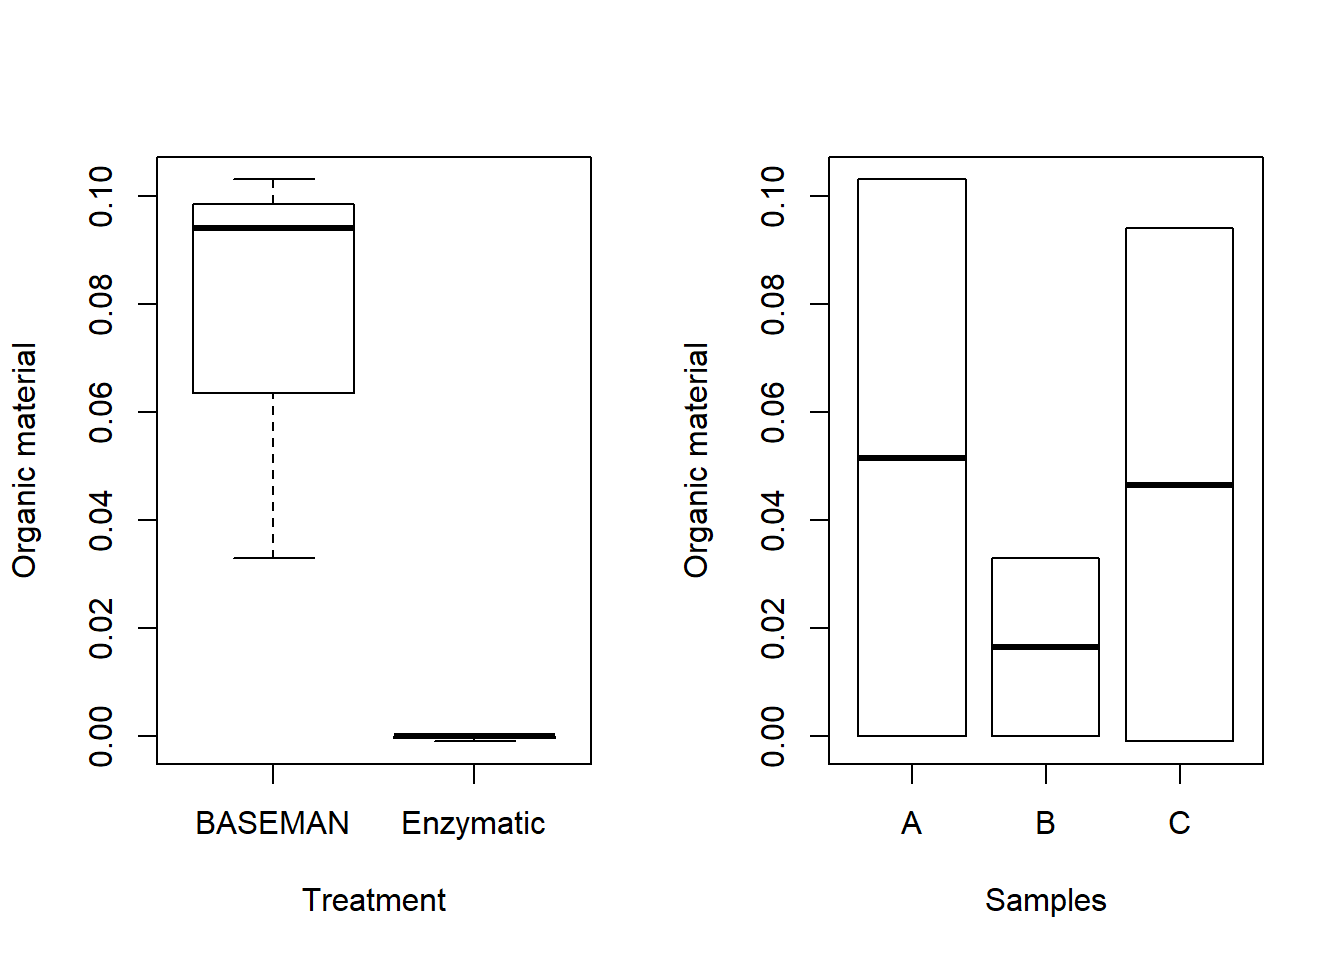
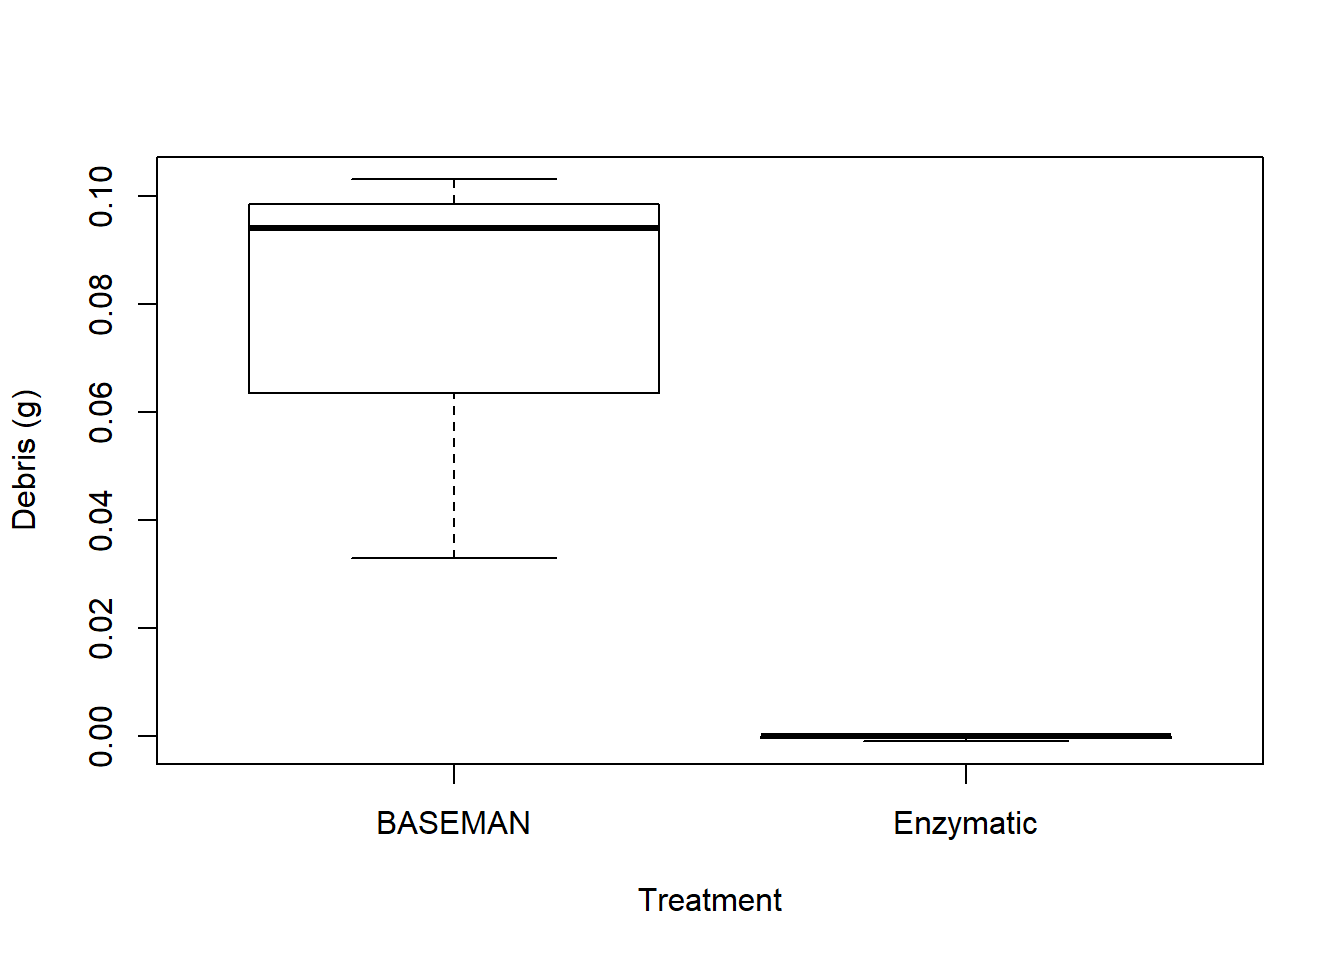
smá texti

diff --git a/docs/microplastic-sampling-and-processing-2019-results.html b/docs/microplastic-sampling-and-processing-2019-results.html
@@ -271,8 +271,8 @@ The number of detected MP particles must be well above blank samples!!!
 </div>
 <div id="sampling-and-processing-dates-of-2019" class="section level2" number="2.2">
 <h2><span class="header-section-number">2.2</span> Sampling and processing dates of 2019</h2>
-<div id="htmlwidget-9a9e03ef46f32324e16c" style="width:100%;height:auto;" class="datatables html-widget"></div>
-<script type="application/json" data-for="htmlwidget-9a9e03ef46f32324e16c">{"x":{"filter":"none","caption":"<caption>Sampling and processing dates<\/caption>","data":[["St 901","St 902","St 903","St 904","St 905","St 906","St 907","St 908","St 909","St 910","St 911","St 912","St 913","St 914","St 915","St 916","St 917","St 918","St 919","St 920","St 921","St 922"],["2019-04-05","2019-04-24","2019-04-30","2019-05-12","2019-05-17","2019-05-25","2019-05-31","2019-06-08","2019-06-14","2019-06-22","2019-06-28","2019-07-06","2019-07-12","2019-07-19","2019-07-25","2019-07-31","2019-08-22","2019-08-31","2019-09-04","2019-09-12","2019-09-18","2019-10-01"],["2019-06-20","2019-06-20","2019-06-20","2019-06-21","2019-06-21","2019-06-21","2019-06-26","2019-06-26","2019-06-26","2019-07-02","2019-07-02","2019-07-22","2019-07-22","2019-07-22","2019-08-27","2019-08-27","2019-08-27","2019-10-01","2019-10-01","2019-10-01","2019-10-23","2019-10-23"],["2019-06-28","2019-06-01","2019-06-01","2019-06-28","2019-06-28","2019-06-28","2019-06-03","2019-06-03","2019-06-03","2019-07-26","2019-07-26","2019-07-30","2019-07-30","2019-07-30","2019-09-30","2019-09-30","2019-09-30","2019-10-17","2019-10-17","2019-10-17","2019-11-05","2019-11-05"]],"container":"<table class=\"display\">\n  <thead>\n    <tr>\n      <th>Sample ID<\/th>\n      <th>Sampling Date<\/th>\n      <th>Processing Date<\/th>\n      <th>Put on Filter<\/th>\n    <\/tr>\n  <\/thead>\n<\/table>","options":{"order":[],"autoWidth":false,"orderClasses":false}},"evals":[],"jsHooks":[]}</script>
+<div id="htmlwidget-3ae4087a4334afe82471" style="width:100%;height:auto;" class="datatables html-widget"></div>
+<script type="application/json" data-for="htmlwidget-3ae4087a4334afe82471">{"x":{"filter":"none","caption":"<caption>Sampling and processing dates<\/caption>","data":[["St 901","St 902","St 903","St 904","St 905","St 906","St 907","St 908","St 909","St 910","St 911","St 912","St 913","St 914","St 915","St 916","St 917","St 918","St 919","St 920","St 921","St 922"],["2019-04-05","2019-04-24","2019-04-30","2019-05-12","2019-05-17","2019-05-25","2019-05-31","2019-06-08","2019-06-14","2019-06-22","2019-06-28","2019-07-06","2019-07-12","2019-07-19","2019-07-25","2019-07-31","2019-08-22","2019-08-31","2019-09-04","2019-09-12","2019-09-18","2019-10-01"],["2019-06-20","2019-06-20","2019-06-20","2019-06-21","2019-06-21","2019-06-21","2019-06-26","2019-06-26","2019-06-26","2019-07-02","2019-07-02","2019-07-22","2019-07-22","2019-07-22","2019-08-27","2019-08-27","2019-08-27","2019-10-01","2019-10-01","2019-10-01","2019-10-23","2019-10-23"],["2019-06-28","2019-06-01","2019-06-01","2019-06-28","2019-06-28","2019-06-28","2019-06-03","2019-06-03","2019-06-03","2019-07-26","2019-07-26","2019-07-30","2019-07-30","2019-07-30","2019-09-30","2019-09-30","2019-09-30","2019-10-17","2019-10-17","2019-10-17","2019-11-05","2019-11-05"]],"container":"<table class=\"display\">\n  <thead>\n    <tr>\n      <th>Sample ID<\/th>\n      <th>Sampling Date<\/th>\n      <th>Processing Date<\/th>\n      <th>Put on Filter<\/th>\n    <\/tr>\n  <\/thead>\n<\/table>","options":{"order":[],"autoWidth":false,"orderClasses":false}},"evals":[],"jsHooks":[]}</script>
 <div id="efficiency-of-digestion" class="section level3" number="2.2.1">
 <h3><span class="header-section-number">2.2.1</span> Efficiency of digestion</h3>
 <p>Samples 901-906 could not be weighed as those samples were put onto a GF/C filter which seems to have lost weight after filtration. Hence samples 901-906 could not give us information about the digestion efficiency.
@@ -281,8 +281,8 @@ The median digestion efficiency was 92 % which means that 92 % of the organic ma
 The amount left behind on the filter after digestion correlates with the amount of organic matter originally present in the samples.
 Digestion efficiency was below the average in samples 915, 916, 917, 918 and 920. Possibly because of high content of diatoms.
 All but the nitrocellulose filters were digestet as well which explains why digestion efficiancy is over 100% in many cases.</p>
-<div id="htmlwidget-44d05086dcd99eee4164" style="width:100%;height:auto;" class="datatables html-widget"></div>
-<script type="application/json" data-for="htmlwidget-44d05086dcd99eee4164">{"x":{"filter":"none","caption":"<caption>Efficiency of digestion<\/caption>","data":[[901,901,901,902,902,902,903,903,903,904,904,904,905,905,905,906,906,906,907,907,907,908,908,908,909,909,909,910,910,910,911,911,911,912,912,912,913,913,913,914,914,914,915,915,915,916,916,916,917,917,917,918,918,918,919,919,919,920,920,920,921,921,921,922,922,922],["A","B","C","A","B","C","A","B","C","A","B","C","A","B","C","A","B","C","A","B","C","A","B","C","A","B","C","A","B","C","A","B","C","A","B","C","A","B","C","A","B","C","A","B","C","A","B","C","A","B","C","A","B","C","A","B","C","A","B","C","A","B","C","A","B","C"],["GF/C","GF/C","GF/C","GF/C","GF/C","GF/C","GF/C","GF/C","GF/C","GF/C","GF/C","GF/C","GF/C","GF/C","GF/C","GF/C","GF/C","GF/C","Membrane Filter, 0.22 µm","Membrane Filter, 0.22 µm","Membrane Filter, 0.22 µm","Membrane Filter, 0.22 µm","Membrane Filter, 0.22 µm","Membrane Filter, 0.22 µm","Membrane Filter, 0.22 µm","Membrane Filter, 0.22 µm","Membrane Filter, 0.22 µm","Nitrocellulose filter","Nitrocellulose filter","Nitrocellulose filter","Nitrocellulose filter","Nitrocellulose filter","Nitrocellulose filter","Nitrocellulose filter","Nitrocellulose filter","Nitrocellulose filter","Nitrocellulose filter","Nitrocellulose filter","Nitrocellulose filter","Nitrocellulose filter","Nitrocellulose filter","Nitrocellulose filter","Nitrocellulose filter","Nitrocellulose filter","Nitrocellulose filter","Nitrocellulose filter","Nitrocellulose filter","Nitrocellulose filter","Nitrocellulose filter","Nitrocellulose filter","Nitrocellulose filter","Nitrocellulose filter","Nitrocellulose filter","Nitrocellulose filter","Nitrocellulose filter","Nitrocellulose filter","Nitrocellulose filter","Nitrocellulose filter","Nitrocellulose filter","Nitrocellulose filter","Nitrocellulose filter","Nitrocellulose filter","Nitrocellulose filter","Nitrocellulose filter","Nitrocellulose filter","Nitrocellulose filter"],[0.092,0.0935,0.0926,0.0936,0.0971,0.0982,0.0994,0.0979,0.098,0.0922,0.0924,0.0931,0.0922,0.0901,0.0922,0.0889,0.0929,0.0929,0.1408,0.1418,0.1438,0.1434,0.1415,0.1419,0.1443,0.1429,0.1422,0.078,0.0777,0.0793,0.0782,0.0797,0.0815,0.0789,0.0817,0.0851,0.0776,0.0781,0.0781,0.0801,0.0807,0.0816,0.0829,0.0827,0.085,0.0872,0.0844,0.082,null,0.1179,0.113,0.0782,0.0799,0.0795,0.0789,0.0793,0.0796,0.0816,0.0832,0.0826,0.0806,0.0799,0.0808,0.0792,0.0803,0.0797],[0.09518,0.09518,0.09518,0.09518,0.09518,0.09518,0.09518,0.09518,0.09518,0.09518,0.09518,0.09518,0.09518,0.09518,0.09518,0.09518,0.09518,0.09518,0.14064,0.14064,0.14064,0.14064,0.14064,0.14064,0.14064,0.14064,0.14064,0.07605,0.07605,0.07605,0.07605,0.07605,0.07605,0.07605,0.07605,0.07605,0.07605,0.07605,0.07605,0.07605,0.07605,0.07605,0.07605,0.07605,0.07605,0.07605,0.07605,0.07605,null,0.07605,0.07605,0.07605,0.07605,0.07605,0.07605,0.07605,0.07605,0.07605,0.07605,0.07605,0.07605,0.07605,0.07605,0.07605,0.07605,0.07605],[-0.00318,-0.00168,-0.00258,-0.00158,0.00192,0.00302,0.00422,0.00272,0.00282,-0.00298,-0.00278,-0.00208,-0.00298,-0.00508,-0.00298,-0.00628,-0.00228,-0.00228,0.00016,0.00116,0.00316,0.00276,0.00086,0.00126,0.00366,0.00226,0.00156,0.00195,0.00165,0.00325,0.00215,0.00365,0.00545,0.00285,0.00565,0.00905,0.00155,0.00205,0.00205,0.00405,0.00465,0.00555,0.00685,0.00665,0.00895,0.01115,0.00835,0.00595,null,0.04185,0.03695,0.00215,0.00385,0.00345,0.00285,0.00325,0.00355,0.00555,0.00715,0.00655,0.00455,0.00385,0.00475,0.00315,0.00425,0.00365],[0.026,0.0529,0.0906,0.4761,0.3078,0.1083,0.4068,0.2967,0.3368,0.1194,0.0657,0.0419,0.0323,0.0236,0.0317,0.0334,0.026,null,0.0474,0.0407,0.038,0.0428,0.0279,0.0612,0.0955,0.0623,0.0385,0.0192,0.021,0.028,0.037,0.0561,0.0751,0.0497,0.0789,0.0873,0.0206,0.0363,0.0375,0.0507,0.0382,0.0507,0.0108,0.0256,0.0467,0.0765,0.0314,0.0225,null,0.2349,0.2382,0.0237,0.0272,0.0135,0.1052,0.0522,0.0543,0.0218,0.0253,0.024,0.0654,0.0902,0.0704,0.0321,0.043,0.0397],[0,-3.2,-2.8,-0.3,0.6,2.8,1,0.9,0.8,-2.5,-4.2,-5,-9.2,-21.5,-9.4,-18.8,-8.8,null,0.3,2.9,8.3,6.4,3.1,2.1,3.8,3.6,4.1,10.2,7.9,11.6,5.8,6.5,7.3,5.7,7.2,10.4,7.5,5.6,5.5,8,12.2,10.9,63.4,26,19.2,14.6,26.6,26.4,null,17.8,15.5,9.1,14.2,25.6,2.7,6.2,6.5,25.5,28.3,27.3,7,4.3,6.7,9.8,9.9,9.2],[100,103.2,102.8,100.3,99.4,97.2,99,99.1,99.2,102.5,104.2,105,109.2,121.5,109.4,118.8,108.8,100,99.7,97.1,91.7,93.6,96.9,97.9,96.2,96.4,95.9,89.8,92.1,88.4,94.2,93.5,92.7,94.3,92.8,89.6,92.5,94.4,94.5,92,87.8,89.1,36.6,74,80.8,85.4,73.4,73.6,null,82.2,84.5,90.9,85.8,74.4,97.3,93.8,93.5,74.5,71.7,72.7,93,95.7,93.3,90.2,90.1,90.8]],"container":"<table class=\"display\">\n  <thead>\n    <tr>\n      <th>Sample ID<\/th>\n      <th>Repl.<\/th>\n      <th>Filter type<\/th>\n      <th>Debris after digest. [g] incl. tare<\/th>\n      <th>Tare of filter (average)<\/th>\n      <th>Debris after digest. [g]<\/th>\n      <th>Debris before digest. [g]<\/th>\n      <th>% left after digest.<\/th>\n      <th>Digest. EFFCY [%]<\/th>\n    <\/tr>\n  <\/thead>\n<\/table>","options":{"columnDefs":[{"className":"dt-right","targets":[0,3,4,5,6,7,8]}],"order":[],"autoWidth":false,"orderClasses":false,"rowCallback":"function(row, data) {\nvar value=data[0]; $(this.api().cell(row, 0).node()).css({'font-size':'80%'});\nvar value=data[1]; $(this.api().cell(row, 1).node()).css({'font-size':'80%'});\nvar value=data[2]; $(this.api().cell(row, 2).node()).css({'font-size':'80%'});\nvar value=data[3]; $(this.api().cell(row, 3).node()).css({'font-size':'80%'});\nvar value=data[4]; $(this.api().cell(row, 4).node()).css({'font-size':'80%'});\nvar value=data[5]; $(this.api().cell(row, 5).node()).css({'font-size':'80%'});\nvar value=data[6]; $(this.api().cell(row, 6).node()).css({'font-size':'80%'});\nvar value=data[7]; $(this.api().cell(row, 7).node()).css({'font-size':'80%'});\nvar value=data[8]; $(this.api().cell(row, 8).node()).css({'font-size':'80%'});\n}"}},"evals":["options.rowCallback"],"jsHooks":[]}</script>
+<div id="htmlwidget-20bcb226ea2353850283" style="width:100%;height:auto;" class="datatables html-widget"></div>
+<script type="application/json" data-for="htmlwidget-20bcb226ea2353850283">{"x":{"filter":"none","caption":"<caption>Efficiency of digestion<\/caption>","data":[[901,901,901,902,902,902,903,903,903,904,904,904,905,905,905,906,906,906,907,907,907,908,908,908,909,909,909,910,910,910,911,911,911,912,912,912,913,913,913,914,914,914,915,915,915,916,916,916,917,917,917,918,918,918,919,919,919,920,920,920,921,921,921,922,922,922],["A","B","C","A","B","C","A","B","C","A","B","C","A","B","C","A","B","C","A","B","C","A","B","C","A","B","C","A","B","C","A","B","C","A","B","C","A","B","C","A","B","C","A","B","C","A","B","C","A","B","C","A","B","C","A","B","C","A","B","C","A","B","C","A","B","C"],["GF/C","GF/C","GF/C","GF/C","GF/C","GF/C","GF/C","GF/C","GF/C","GF/C","GF/C","GF/C","GF/C","GF/C","GF/C","GF/C","GF/C","GF/C","Membrane Filter, 0.22 µm","Membrane Filter, 0.22 µm","Membrane Filter, 0.22 µm","Membrane Filter, 0.22 µm","Membrane Filter, 0.22 µm","Membrane Filter, 0.22 µm","Membrane Filter, 0.22 µm","Membrane Filter, 0.22 µm","Membrane Filter, 0.22 µm","Nitrocellulose filter","Nitrocellulose filter","Nitrocellulose filter","Nitrocellulose filter","Nitrocellulose filter","Nitrocellulose filter","Nitrocellulose filter","Nitrocellulose filter","Nitrocellulose filter","Nitrocellulose filter","Nitrocellulose filter","Nitrocellulose filter","Nitrocellulose filter","Nitrocellulose filter","Nitrocellulose filter","Nitrocellulose filter","Nitrocellulose filter","Nitrocellulose filter","Nitrocellulose filter","Nitrocellulose filter","Nitrocellulose filter","Nitrocellulose filter","Nitrocellulose filter","Nitrocellulose filter","Nitrocellulose filter","Nitrocellulose filter","Nitrocellulose filter","Nitrocellulose filter","Nitrocellulose filter","Nitrocellulose filter","Nitrocellulose filter","Nitrocellulose filter","Nitrocellulose filter","Nitrocellulose filter","Nitrocellulose filter","Nitrocellulose filter","Nitrocellulose filter","Nitrocellulose filter","Nitrocellulose filter"],[0.092,0.0935,0.0926,0.0936,0.0971,0.0982,0.0994,0.0979,0.098,0.0922,0.0924,0.0931,0.0922,0.0901,0.0922,0.0889,0.0929,0.0929,0.1408,0.1418,0.1438,0.1434,0.1415,0.1419,0.1443,0.1429,0.1422,0.078,0.0777,0.0793,0.0782,0.0797,0.0815,0.0789,0.0817,0.0851,0.0776,0.0781,0.0781,0.0801,0.0807,0.0816,0.0829,0.0827,0.085,0.0872,0.0844,0.082,null,0.1179,0.113,0.0782,0.0799,0.0795,0.0789,0.0793,0.0796,0.0816,0.0832,0.0826,0.0806,0.0799,0.0808,0.0792,0.0803,0.0797],[0.09518,0.09518,0.09518,0.09518,0.09518,0.09518,0.09518,0.09518,0.09518,0.09518,0.09518,0.09518,0.09518,0.09518,0.09518,0.09518,0.09518,0.09518,0.14064,0.14064,0.14064,0.14064,0.14064,0.14064,0.14064,0.14064,0.14064,0.07605,0.07605,0.07605,0.07605,0.07605,0.07605,0.07605,0.07605,0.07605,0.07605,0.07605,0.07605,0.07605,0.07605,0.07605,0.07605,0.07605,0.07605,0.07605,0.07605,0.07605,null,0.07605,0.07605,0.07605,0.07605,0.07605,0.07605,0.07605,0.07605,0.07605,0.07605,0.07605,0.07605,0.07605,0.07605,0.07605,0.07605,0.07605],[-0.00318,-0.00168,-0.00258,-0.00158,0.00192,0.00302,0.00422,0.00272,0.00282,-0.00298,-0.00278,-0.00208,-0.00298,-0.00508,-0.00298,-0.00628,-0.00228,-0.00228,0.00016,0.00116,0.00316,0.00276,0.00086,0.00126,0.00366,0.00226,0.00156,0.00195,0.00165,0.00325,0.00215,0.00365,0.00545,0.00285,0.00565,0.00905,0.00155,0.00205,0.00205,0.00405,0.00465,0.00555,0.00685,0.00665,0.00895,0.01115,0.00835,0.00595,null,0.04185,0.03695,0.00215,0.00385,0.00345,0.00285,0.00325,0.00355,0.00555,0.00715,0.00655,0.00455,0.00385,0.00475,0.00315,0.00425,0.00365],[0.026,0.0529,0.0906,0.4761,0.3078,0.1083,0.4068,0.2967,0.3368,0.1194,0.0657,0.0419,0.0323,0.0236,0.0317,0.0334,0.026,null,0.0474,0.0407,0.038,0.0428,0.0279,0.0612,0.0955,0.0623,0.0385,0.0192,0.021,0.028,0.037,0.0561,0.0751,0.0497,0.0789,0.0873,0.0206,0.0363,0.0375,0.0507,0.0382,0.0507,0.0108,0.0256,0.0467,0.0765,0.0314,0.0225,null,0.2349,0.2382,0.0237,0.0272,0.0135,0.1052,0.0522,0.0543,0.0218,0.0253,0.024,0.0654,0.0902,0.0704,0.0321,0.043,0.0397],[0,-3.2,-2.8,-0.3,0.6,2.8,1,0.9,0.8,-2.5,-4.2,-5,-9.2,-21.5,-9.4,-18.8,-8.8,null,0.3,2.9,8.3,6.4,3.1,2.1,3.8,3.6,4.1,10.2,7.9,11.6,5.8,6.5,7.3,5.7,7.2,10.4,7.5,5.6,5.5,8,12.2,10.9,63.4,26,19.2,14.6,26.6,26.4,null,17.8,15.5,9.1,14.2,25.6,2.7,6.2,6.5,25.5,28.3,27.3,7,4.3,6.7,9.8,9.9,9.2],[100,103.2,102.8,100.3,99.4,97.2,99,99.1,99.2,102.5,104.2,105,109.2,121.5,109.4,118.8,108.8,100,99.7,97.1,91.7,93.6,96.9,97.9,96.2,96.4,95.9,89.8,92.1,88.4,94.2,93.5,92.7,94.3,92.8,89.6,92.5,94.4,94.5,92,87.8,89.1,36.6,74,80.8,85.4,73.4,73.6,null,82.2,84.5,90.9,85.8,74.4,97.3,93.8,93.5,74.5,71.7,72.7,93,95.7,93.3,90.2,90.1,90.8]],"container":"<table class=\"display\">\n  <thead>\n    <tr>\n      <th>Sample ID<\/th>\n      <th>Repl.<\/th>\n      <th>Filter type<\/th>\n      <th>Debris after digest. [g] incl. tare<\/th>\n      <th>Tare of filter (average)<\/th>\n      <th>Debris after digest. [g]<\/th>\n      <th>Debris before digest. [g]<\/th>\n      <th>% left after digest.<\/th>\n      <th>Digest. EFFCY [%]<\/th>\n    <\/tr>\n  <\/thead>\n<\/table>","options":{"columnDefs":[{"className":"dt-right","targets":[0,3,4,5,6,7,8]}],"order":[],"autoWidth":false,"orderClasses":false,"rowCallback":"function(row, data) {\nvar value=data[0]; $(this.api().cell(row, 0).node()).css({'font-size':'80%'});\nvar value=data[1]; $(this.api().cell(row, 1).node()).css({'font-size':'80%'});\nvar value=data[2]; $(this.api().cell(row, 2).node()).css({'font-size':'80%'});\nvar value=data[3]; $(this.api().cell(row, 3).node()).css({'font-size':'80%'});\nvar value=data[4]; $(this.api().cell(row, 4).node()).css({'font-size':'80%'});\nvar value=data[5]; $(this.api().cell(row, 5).node()).css({'font-size':'80%'});\nvar value=data[6]; $(this.api().cell(row, 6).node()).css({'font-size':'80%'});\nvar value=data[7]; $(this.api().cell(row, 7).node()).css({'font-size':'80%'});\nvar value=data[8]; $(this.api().cell(row, 8).node()).css({'font-size':'80%'});\n}"}},"evals":["options.rowCallback"],"jsHooks":[]}</script>
 <p><img src="MPprotocol_files/figure-html/MyndDigestionEff-1.svg" width="672" /><img src="MPprotocol_files/figure-html/MyndDigestionEff-2.svg" width="672" /></p>
 </div>
 </div>

diff --git a/docs/comparison-of-enzymatic-purification-and-gesamp-protocol.html b/docs/comparison-of-enzymatic-purification-and-gesamp-protocol.html
@@ -141,15 +141,17 @@
             <section class="normal" id="section-">
 <div id="comparison-of-enzymatic-purification-and-gesamp-protocol" class="section level1" number="3">
 <h1><span class="header-section-number">Chapter 3</span> Comparison of Enzymatic purification and GESAMP protocol</h1>
-<p>Replication of the methods from the article: Enzymatic Purification of Microplastics in Environmental Samples.</p>
+<p><em>Replication of the methods from the article: <a href="https://pubs.acs.org/doi/abs/10.1021/acs.est.7b03055">Enzymatic Purification of Microplastics in Environmental Samples</a>.</em></p>
+<p>To perform this comparison study samples A, B and C from sample trip 909 were divided in two treatments; the BASEMAN (see above) and Enzymatic treatment (without the density separation step).</p>
 <p><img src="MPprotocol_files/figure-html/unnamed-chunk-1-1.png" width="672" /></p>
 <table>
 <thead>
 <tr class="header">
 <th align="left">Treatment</th>
 <th align="left">Sample</th>
-<th align="right">Organic material</th>
-<th align="right">Digestion Efficiency</th>
+<th align="right">Debris before (g)</th>
+<th align="right">Debris after (g)</th>
+<th align="right">Digestion Efficiency (%)</th>
 </tr>
 </thead>
 <tbody>
@@ -157,42 +159,49 @@
 <td align="left">Enzymatic</td>
 <td align="left">C</td>
 <td align="right">1.427</td>
-<td align="right">1.00</td>
+<td align="right">-0.001</td>
+<td align="right">100</td>
 </tr>
 <tr class="even">
 <td align="left">Enzymatic</td>
 <td align="left">B</td>
 <td align="right">1.275</td>
-<td align="right">1.00</td>
+<td align="right">0.000</td>
+<td align="right">100</td>
 </tr>
 <tr class="odd">
 <td align="left">Enzymatic</td>
 <td align="left">A</td>
 <td align="right">1.383</td>
-<td align="right">1.00</td>
+<td align="right">0.000</td>
+<td align="right">100</td>
 </tr>
 <tr class="even">
 <td align="left">BASEMAN</td>
 <td align="left">C</td>
 <td align="right">1.588</td>
-<td align="right">0.94</td>
+<td align="right">0.094</td>
+<td align="right">94</td>
 </tr>
 <tr class="odd">
 <td align="left">BASEMAN</td>
 <td align="left">B</td>
 <td align="right">1.283</td>
-<td align="right">0.97</td>
+<td align="right">0.033</td>
+<td align="right">97</td>
 </tr>
 <tr class="even">
 <td align="left">BASEMAN</td>
 <td align="left">A</td>
 <td align="right">1.503</td>
-<td align="right">0.93</td>
+<td align="right">0.103</td>
+<td align="right">93</td>
 </tr>
 </tbody>
 </table>
 <div id="images" class="section level2" number="3.1">
 <h2><span class="header-section-number">3.1</span> Images</h2>
+<p>The debris left over from the enzymatic approach is acceptable for the Raman spectroscopy with a particle finder.</p>
 <p><img src="MPprotocol_files/figure-html/Enzymatic-1.png" width="400" /></p>
 <p><img src="MPprotocol_files/figure-html/BASEMAN-1.png" width="600" /></p>
 
